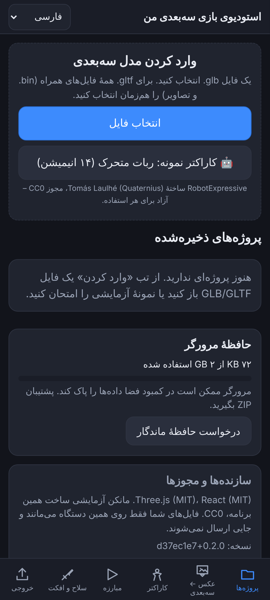
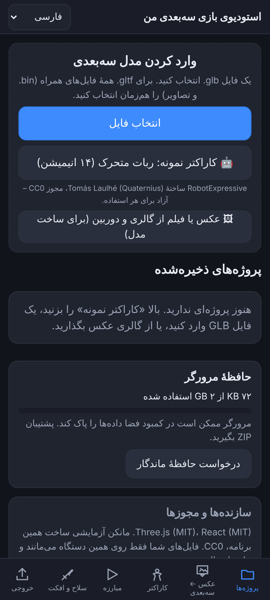
v0.2.1: gallery and camera buttons, video frame extraction
- Gallery button opens the Android photo picker (photos/videos)
- Camera button for photo or video
- Videos: original kept, full-resolution frames extracted as references
- Model file picker no longer offers camera options

Claude-Session: https://claude.ai/code/session_01K1BeSYRu8UERwoLwufnL3c

diff --git a/src/ui/CreatePanel.tsx b/src/ui/CreatePanel.tsx
@@ -2,9 +2,14 @@ import { useEffect, useRef, useState } from 'react';
 import type { AppApi } from './App';
 import { useI18n, useUi, ComingLater } from './common';
 import * as db from '../core/db';
-import { checkSize, classify, formatBytes } from '../core/files';
+import { checkSize, formatBytes } from '../core/files';
 import { checkHealth, generate, loadBackendConfig, normaliseUrl, saveBackendConfig, type BackendConfig, type Health } from '../core/backend';
 import { buildProjectFromFiles, emptyProject, fileMeta } from './importLogic';
+import { extractFrames } from './videoFrames';
+
+const IMG_RE = /\.(png|jpe?g|webp)$/i;
+const isImage = (f: File) => /^image\/(png|jpeg|webp)$/.test(f.type) || IMG_RE.test(f.name);
+const isVideo = (f: File) => f.type.startsWith('video/') || /\.(mp4|webm|mov|3gp|mkv)$/i.test(f.name);
 
 /** Workflow: 1 photos → 2 generate mesh (GPU backend) → 3 rig (planned) → 4 animate → 5 export. */
 export function CreatePanel({ api }: { api: AppApi }) {
@@ -12,6 +17,9 @@ export function CreatePanel({ api }: { api: AppApi }) {
   const ui = useUi();
   const c = api.current;
   const fileRef = useRef<HTMLInputElement>(null);
+  const camRef = useRef<HTMLInputElement>(null);
+  const [frames, setFrames] = useState(8);
+  const [extracting, setExtracting] = useState('');
   const [cfg, setCfg] = useState<BackendConfig>(loadBackendConfig);
   const [health, setHealth] = useState<Health | null>(null);
   const [healthErr, setHealthErr] = useState('');
@@ -23,6 +31,7 @@ export function CreatePanel({ api }: { api: AppApi }) {
   const [thumbs, setThumbs] = useState<Record<string, { url: string; w: number; h: number }>>({});
 
   const refs = c?.project.files.filter((f) => f.role === 'reference') ?? [];
+  const videos = c?.project.files.filter((f) => f.role === 'video') ?? [];
 
   useEffect(() => {
     const out: Record<string, { url: string; w: number; h: number }> = {};
@@ -50,9 +59,30 @@ export function CreatePanel({ api }: { api: AppApi }) {
   }, [c?.project.id, refs.length]);
 
   async function addImages(list: File[]) {
-    const ok = list.filter((f) => classify(f.name) === 'image' && /\.(png|jpe?g|webp)$/i.test(f.name) && checkSize(f.size).ok);
-    if (!ok.length) return ui.toast(t('import.invalid', { msg: 'JPG / PNG / WebP' }), 'error');
-    const metas = await Promise.all(ok.map((f) => fileMeta(f, f.name, 'reference')));
+    const imgs = list.filter((f) => isImage(f) && checkSize(f.size).ok);
+    const vids = list.filter((f) => isVideo(f) && checkSize(f.size).ok);
+    if (!imgs.length && !vids.length) {
+      if (fileRef.current) fileRef.current.value = '';
+      if (camRef.current) camRef.current.value = '';
+      return ui.toast(t('import.invalid', { msg: t('create.formats') }), 'error');
+    }
+    const named = (f: File, i: number) => (IMG_RE.test(f.name) || isVideo(f) && /\.\w+$/.test(f.name) ? f.name : `${t('create.photoWord')}-${Date.now()}-${i}.${(f.type.split('/')[1] || 'jpg').replace('jpeg', 'jpg')}`);
+    const metas = await Promise.all(imgs.map((f, i) => fileMeta(f, named(f, i), 'reference')));
+    // Videos: keep the original, and extract evenly spaced full-resolution frames as reference images.
+    for (const [vi, v] of vids.entries()) {
+      try {
+        setExtracting(t('create.extracting', { n: 0, total: frames }));
+        const fr = await extractFrames(v, frames, (k) => setExtracting(t('create.extracting', { n: k, total: frames })));
+        const base = named(v, vi).replace(/\.[^.]+$/, '');
+        metas.push(await fileMeta(v, named(v, vi), 'video'));
+        for (const [k, x] of fr.entries()) metas.push(await fileMeta(x.blob, `${base}-frame-${String(k + 1).padStart(2, '0')}.png`, 'reference'));
+      } catch (e: any) {
+        ui.toast(t('create.videoFailed', { msg: e?.message ?? String(e) }), 'error');
+      } finally {
+        setExtracting('');
+      }
+    }
+    if (!metas.length) return;
     try {
       if (!c) {
         const p = emptyProject(t('create.newRefProject'), 'references');
@@ -62,12 +92,13 @@ export function CreatePanel({ api }: { api: AppApi }) {
         api.openProject(p, blobs, true);
         api.bumpProjects();
       } else if (!(await api.addFiles(metas))) return;
-      setSelected(metas[0].meta.id);
+      setSelected((metas.find((m) => m.meta.role === 'reference') ?? metas[0]).meta.id);
       ui.toast(t('create.refsSaved'), 'ok');
     } catch (e: any) {
       ui.toast(e?.code === 'quota' ? t('err.quota') : t('err.generic', { msg: e?.message ?? String(e) }), 'error');
     } finally {
       if (fileRef.current) fileRef.current.value = '';
+      if (camRef.current) camRef.current.value = '';
     }
   }
 
@@ -129,8 +160,25 @@ export function CreatePanel({ api }: { api: AppApi }) {
       <section className="card">
         <h3>1 · {t('create.refs')}</h3>
         <p className="muted small">{t('create.refsNote')}</p>
-        <button className="btn btn-primary btn-big" onClick={() => fileRef.current?.click()} data-testid="add-refs">🖼 {t('create.addRefs')}</button>
-        <input ref={fileRef} type="file" multiple hidden onChange={(e) => addImages([...(e.target.files ?? [])])} data-testid="ref-input" />
+        <div className="row wrap media-buttons">
+          <button className="btn btn-primary btn-big" onClick={() => fileRef.current?.click()} data-testid="add-refs">🖼 {t('create.gallery')}</button>
+          <button className="btn btn-big" onClick={() => camRef.current?.click()} data-testid="camera">📷 {t('create.camera')}</button>
+        </div>
+        {/* accept="image/*,video/*" (no capture) → Android opens the Photo Picker / gallery directly */}
+        <input ref={fileRef} type="file" accept="image/*,video/*" multiple hidden onChange={(e) => addImages([...(e.target.files ?? [])])} data-testid="ref-input" />
+        {/* capture → opens the camera app; switch photo/video inside the camera if your camera app allows it */}
+        <input ref={camRef} type="file" accept="image/*,video/*" capture="environment" hidden onChange={(e) => addImages([...(e.target.files ?? [])])} data-testid="camera-input" />
+        <p className="muted tiny">{t('create.cameraNote')}</p>
+        <label className="field">
+          <span>{t('create.framesPerVideo', { n: n(frames) })}</span>
+          <input type="range" min={4} max={24} step={1} value={frames} onChange={(e) => setFrames(+e.target.value)} />
+        </label>
+        {extracting && <div className="progress"><div className="spinner" /> {extracting}</div>}
+        {videos.length > 0 && (
+          <ul className="file-list" data-testid="video-list">
+            {videos.map((f) => <li key={f.id} className="small">🎬 <span className="mono">{f.name}</span> <span className="muted">{formatBytes(f.size)}</span></li>)}
+          </ul>
+        )}
         {refs.length > 0 && (
           <ul className="ref-grid" data-testid="ref-grid">
             {refs.map((f) => (

diff --git a/src/core/i18n_extra.ts b/src/core/i18n_extra.ts
@@ -37,6 +37,16 @@ export const EXTRA_FA = {
   'create.resolution': 'وضوح مش: {n}',
   'create.rigLater': 'مرحلهٔ ۳ · اسکلتگذاری خودکار (اسکلت انسانی + وزن پوست) – به سرور اسکلتگذاری نیاز دارد و هنوز وصل نشده است. فعلاً: مدلهای اسکلتدار (مثلاً از Meshy یا Mixamo) را وارد کنید.',
   'create.moreLater': 'بازسازی چندنمایی، بهبود و افزایش وضوح تکسچر، بازسازی مش و بودجهٔ مثلث',
+  'create.gallery': 'گالری (عکس یا فیلم)',
+  'create.camera': 'دوربین',
+  'create.cameraNote': 'دوربین برای عکس یا فیلم باز میشود. اگر اندروید بین «دوربین» و «فیلمبرداری» پرسید، یکی را انتخاب کنید. از هر فیلم، خودکار چند فریم با وضوح کامل برای ساخت مدل برداشته میشود؛ فیلم اصلی هم نگه داشته میشود.',
+  'create.formats': 'عکس JPG / PNG / WebP یا فیلم MP4 / WebM',
+  'create.photoWord': 'photo',
+  'create.extracting': 'در حال برداشتن فریم از فیلم… {n} از {total}',
+  'create.videoFailed': 'فیلم پردازش نشد: {msg}',
+  'create.framesPerVideo': 'تعداد فریم از هر فیلم: {n}',
+  'import.photoShortcut': 'عکس یا فیلم از گالری و دوربین (برای ساخت مدل)',
+  'projects.empty': 'هنوز پروژهای ندارید. بالا «کاراکتر نمونه» را بزنید، یک فایل GLB وارد کنید، یا از گالری عکس بگذارید.',
   'char.title': 'کاراکتر و اسکلت',
   'char.bones': 'استخوانها',
   'char.boneCount': '{n} استخوان – روی هر کدام بزنید تا در مدل مشخص شود',
@@ -181,6 +191,16 @@ export const EXTRA_EN: Dict = {
   'create.resolution': 'Mesh resolution: {n}',
   'create.rigLater': 'Step 3 · Auto-rigging (humanoid skeleton + skin weights) – needs a rigging server, not connected yet. For now: import rigged models (e.g. from Meshy or Mixamo).',
   'create.moreLater': 'Multi-view reconstruction, texture refinement & upscaling, remesh & triangle budget',
+  'create.gallery': 'Gallery (photo or video)',
+  'create.camera': 'Camera',
+  'create.cameraNote': 'Opens the camera for a photo or video. If Android asks “Camera” or “Camcorder”, pick one. From each video, full-resolution frames are extracted automatically for 3D generation; the original video is kept too.',
+  'create.formats': 'JPG / PNG / WebP photo or MP4 / WebM video',
+  'create.photoWord': 'photo',
+  'create.extracting': 'Extracting video frames… {n} of {total}',
+  'create.videoFailed': 'Video could not be processed: {msg}',
+  'create.framesPerVideo': 'Frames per video: {n}',
+  'import.photoShortcut': 'Photo or video from gallery / camera (for 3D generation)',
+  'projects.empty': 'No projects yet. Tap “Sample character” above, import a GLB, or add photos from your gallery.',
   'char.title': 'Character & skeleton',
   'char.bones': 'Bones',
   'char.boneCount': '{n} bones – tap one to highlight it on the model',
@@ -323,6 +343,16 @@ export const EXTRA_DE: Dict = {
   'create.resolution': 'Mesh-Auflösung: {n}',
   'create.rigLater': 'Schritt 3 · Automatisches Rigging (humanoides Skelett + Skin-Gewichte) – braucht einen Rigging-Server, noch nicht verbunden. Vorerst: geriggte Modelle (z. B. aus Meshy oder Mixamo) importieren.',
   'create.moreLater': 'Mehransichts-Rekonstruktion, Texturverbesserung & Hochskalierung, Remesh & Dreiecksbudget',
+  'create.gallery': 'Galerie (Foto oder Video)',
+  'create.camera': 'Kamera',
+  'create.cameraNote': 'Öffnet die Kamera für Foto oder Video. Fragt Android „Kamera“ oder „Videokamera“, eines wählen. Aus jedem Video werden automatisch Einzelbilder in voller Auflösung für die 3D-Erzeugung entnommen; das Originalvideo bleibt erhalten.',
+  'create.formats': 'Foto JPG / PNG / WebP oder Video MP4 / WebM',
+  'create.photoWord': 'foto',
+  'create.extracting': 'Einzelbilder werden entnommen… {n} von {total}',
+  'create.videoFailed': 'Video konnte nicht verarbeitet werden: {msg}',
+  'create.framesPerVideo': 'Einzelbilder pro Video: {n}',
+  'import.photoShortcut': 'Foto oder Video aus Galerie / Kamera (für 3D-Erzeugung)',
+  'projects.empty': 'Noch keine Projekte. Oben „Beispielfigur“ tippen, eine GLB importieren oder Fotos aus der Galerie hinzufügen.',
   'char.title': 'Figur & Skelett',
   'char.bones': 'Knochen',
   'char.boneCount': '{n} Knochen – antippen, um ihn am Modell zu markieren',

diff --git a/src/ui/videoFrames.ts b/src/ui/videoFrames.ts
@@ -1,0 +1,51 @@
+/**
+ * Extract evenly spaced frames from a video at its native resolution (lossless PNG).
+ * Used to turn a walk-around video into multiple reference images.
+ * Note: video frames are usually less sharp than photos (compression, motion blur).
+ */
+export async function extractFrames(video: Blob, count: number, onProgress?: (i: number) => void): Promise<{ blob: Blob; w: number; h: number; time: number }[]> {
+  const url = URL.createObjectURL(video);
+  const el = document.createElement('video');
+  el.muted = true;
+  el.playsInline = true;
+  el.preload = 'auto';
+  el.src = url;
+  try {
+    await new Promise<void>((res, rej) => {
+      el.onloadedmetadata = () => res();
+      el.onerror = () => rej(new Error('video format not supported by this browser'));
+      setTimeout(() => rej(new Error('video load timeout')), 20000);
+    });
+    // Some browsers report Infinity duration for recorded WebM until seeked to the end.
+    if (!Number.isFinite(el.duration)) {
+      el.currentTime = 1e9;
+      await new Promise((r) => (el.onseeked = r));
+    }
+    const dur = Number.isFinite(el.duration) && el.duration > 0 ? el.duration : 1;
+    const w = el.videoWidth;
+    const h = el.videoHeight;
+    if (!w || !h) throw new Error('video has no picture');
+    const canvas = document.createElement('canvas');
+    canvas.width = w;
+    canvas.height = h;
+    const ctx = canvas.getContext('2d')!;
+    const out: { blob: Blob; w: number; h: number; time: number }[] = [];
+    for (let i = 0; i < count; i++) {
+      const time = ((i + 0.5) * dur) / count;
+      el.currentTime = time;
+      await new Promise<void>((res, rej) => {
+        el.onseeked = () => res();
+        setTimeout(() => rej(new Error('seek timeout')), 10000);
+      });
+      ctx.drawImage(el, 0, 0, w, h);
+      const blob = await new Promise<Blob>((res, rej) => canvas.toBlob((b) => (b ? res(b) : rej(new Error('encode failed'))), 'image/png'));
+      out.push({ blob, w, h, time });
+      onProgress?.(i + 1);
+    }
+    return out;
+  } finally {
+    el.removeAttribute('src');
+    el.load();
+    URL.revokeObjectURL(url);
+  }
+}

diff --git a/src/ui/ImportPanel.tsx b/src/ui/ImportPanel.tsx
@@ -73,8 +73,8 @@ export function ImportPanel({ api }: { api: AppApi }) {
       >
         <h2>{t('import.title')}</h2>
         <p className="muted small">{t('import.hint')}</p>
-        {/* No accept filter: Android Chrome often greys out .glb files when one is set. Files are validated after selection. */}
-        <input ref={inputRef} type="file" multiple hidden onChange={(e) => handleFiles([...(e.target.files ?? [])])} data-testid="file-input" />
+        {/* Non-image accept list: no camera chooser on Android; octet-stream keeps .glb selectable. Files are validated after selection. */}
+        <input ref={inputRef} type="file" multiple hidden accept=".glb,.gltf,.bin,model/gltf-binary,model/gltf+json,application/octet-stream,application/json" onChange={(e) => handleFiles([...(e.target.files ?? [])])} data-testid="file-input" />
         <div className="row wrap">
           <button className="btn btn-primary btn-big" onClick={() => inputRef.current?.click()} disabled={busy}>
             {t('import.pick')}
@@ -84,6 +84,7 @@ export function ImportPanel({ api }: { api: AppApi }) {
           </button>
         </div>
         <p className="muted tiny">{t('import.sampleRobotNote')}</p>
+        <button className="btn" onClick={() => api.setTab('create')} data-testid="photo-shortcut">🖼 {t('import.photoShortcut')}</button>
         <p className="muted small desktop-only">{t('import.drop')}</p>
       </section>
 

diff --git a/src/ui/styles.css b/src/ui/styles.css
@@ -210,3 +210,4 @@ p { margin: .35rem 0; }
 .catalog-cat summary { cursor: pointer; min-height: 40px; display: flex; align-items: center; gap: .4rem; }
 .catalog-list { list-style: none; padding: 0; margin: .2rem 0; display: flex; flex-direction: column; gap: .3rem; font-size: .88rem; }
 h4 { margin: .8rem 0 .3rem; font-size: .95rem; }
+.media-buttons .btn-big { flex: 1 1 140px; }

diff --git a/src/core/project.ts b/src/core/project.ts
@@ -38,7 +38,7 @@ export interface AssetFileMeta {
   size: number;
   type: string;
   sha256: string;
-  role: 'main' | 'resource' | 'reference' | 'animation';
+  role: 'main' | 'resource' | 'reference' | 'animation' | 'video';
 }
 
 export interface ComboStep {

diff --git a/CHANGELOG.md b/CHANGELOG.md
@@ -1,5 +1,12 @@
 # Changelog
 
+## 0.2.1 — 2026-11-06
+- Image→3D: separate **Gallery** button (opens Android photo picker for photos/videos) and **Camera** button (photo or video).
+- Videos: original kept; 4–24 evenly spaced frames extracted at native resolution (PNG) as reference images.
+- Model "Choose files" no longer shows camera options (non-image accept list that keeps .glb selectable).
+- Shortcut from Projects to photo import; corrected empty-projects text.
+- e2e: 29/29 (new step: real recorded WebM → 8 frames at 640×480).
+
 ## 0.2.0 — 2026-11-06
 - **Three.js r169 vendored and bundled** (lazy chunk); no CDN; full offline incl. 3D engine and Draco decoder.
 - New navigation: Projects · Image→3D · Character · Combat · Weapons & VFX · Export.

diff --git a/TEST_RESULTS.md b/TEST_RESULTS.md
@@ -8,7 +8,7 @@ Run: 2026-11-06T15:40:26.554Z in the build sandbox. **Environment:** headless Ch
 | Unit tests | ✅ 27/27 |
 | Production build | ✅ 20 files, 2.33 MB, self-contained |
 | Backend `main.py` | ✅ syntax check only — FastAPI/PyTorch not installable here, no GPU |
-| End-to-end | ✅ 28/28 |
+| End-to-end | ✅ 29/29 |
 
 ## E2E steps
 | Step | Result | Time |
